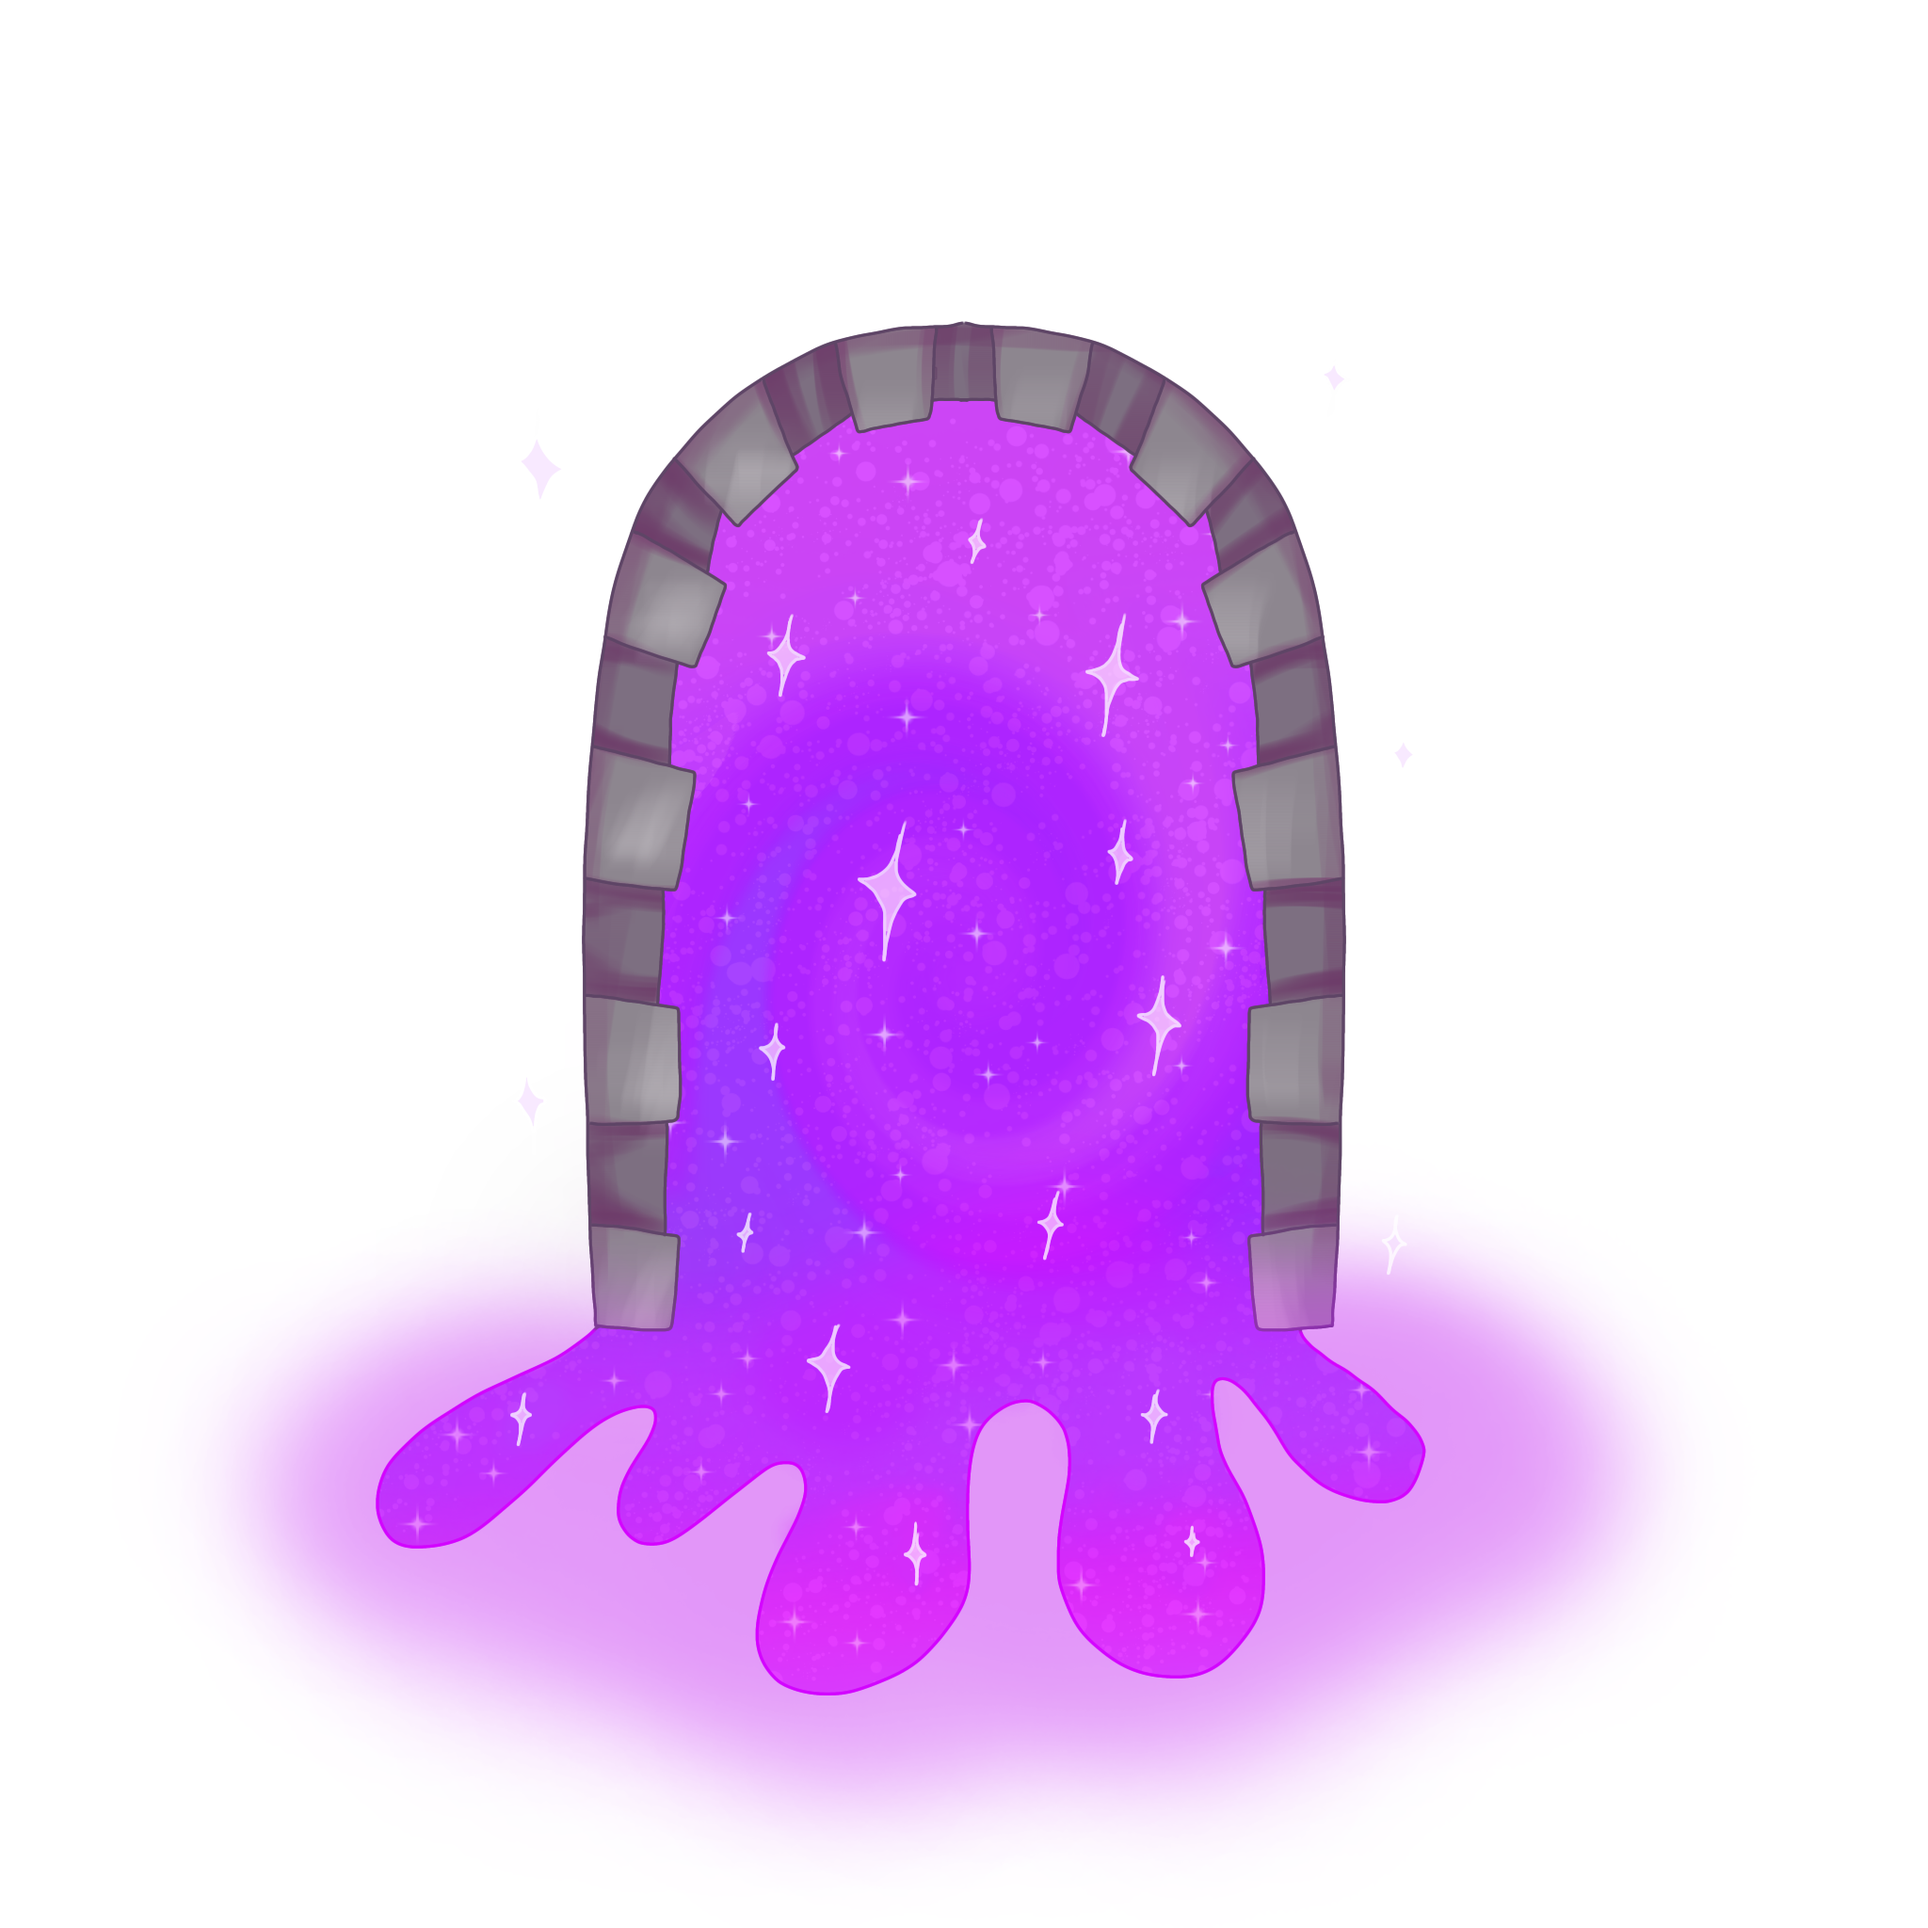
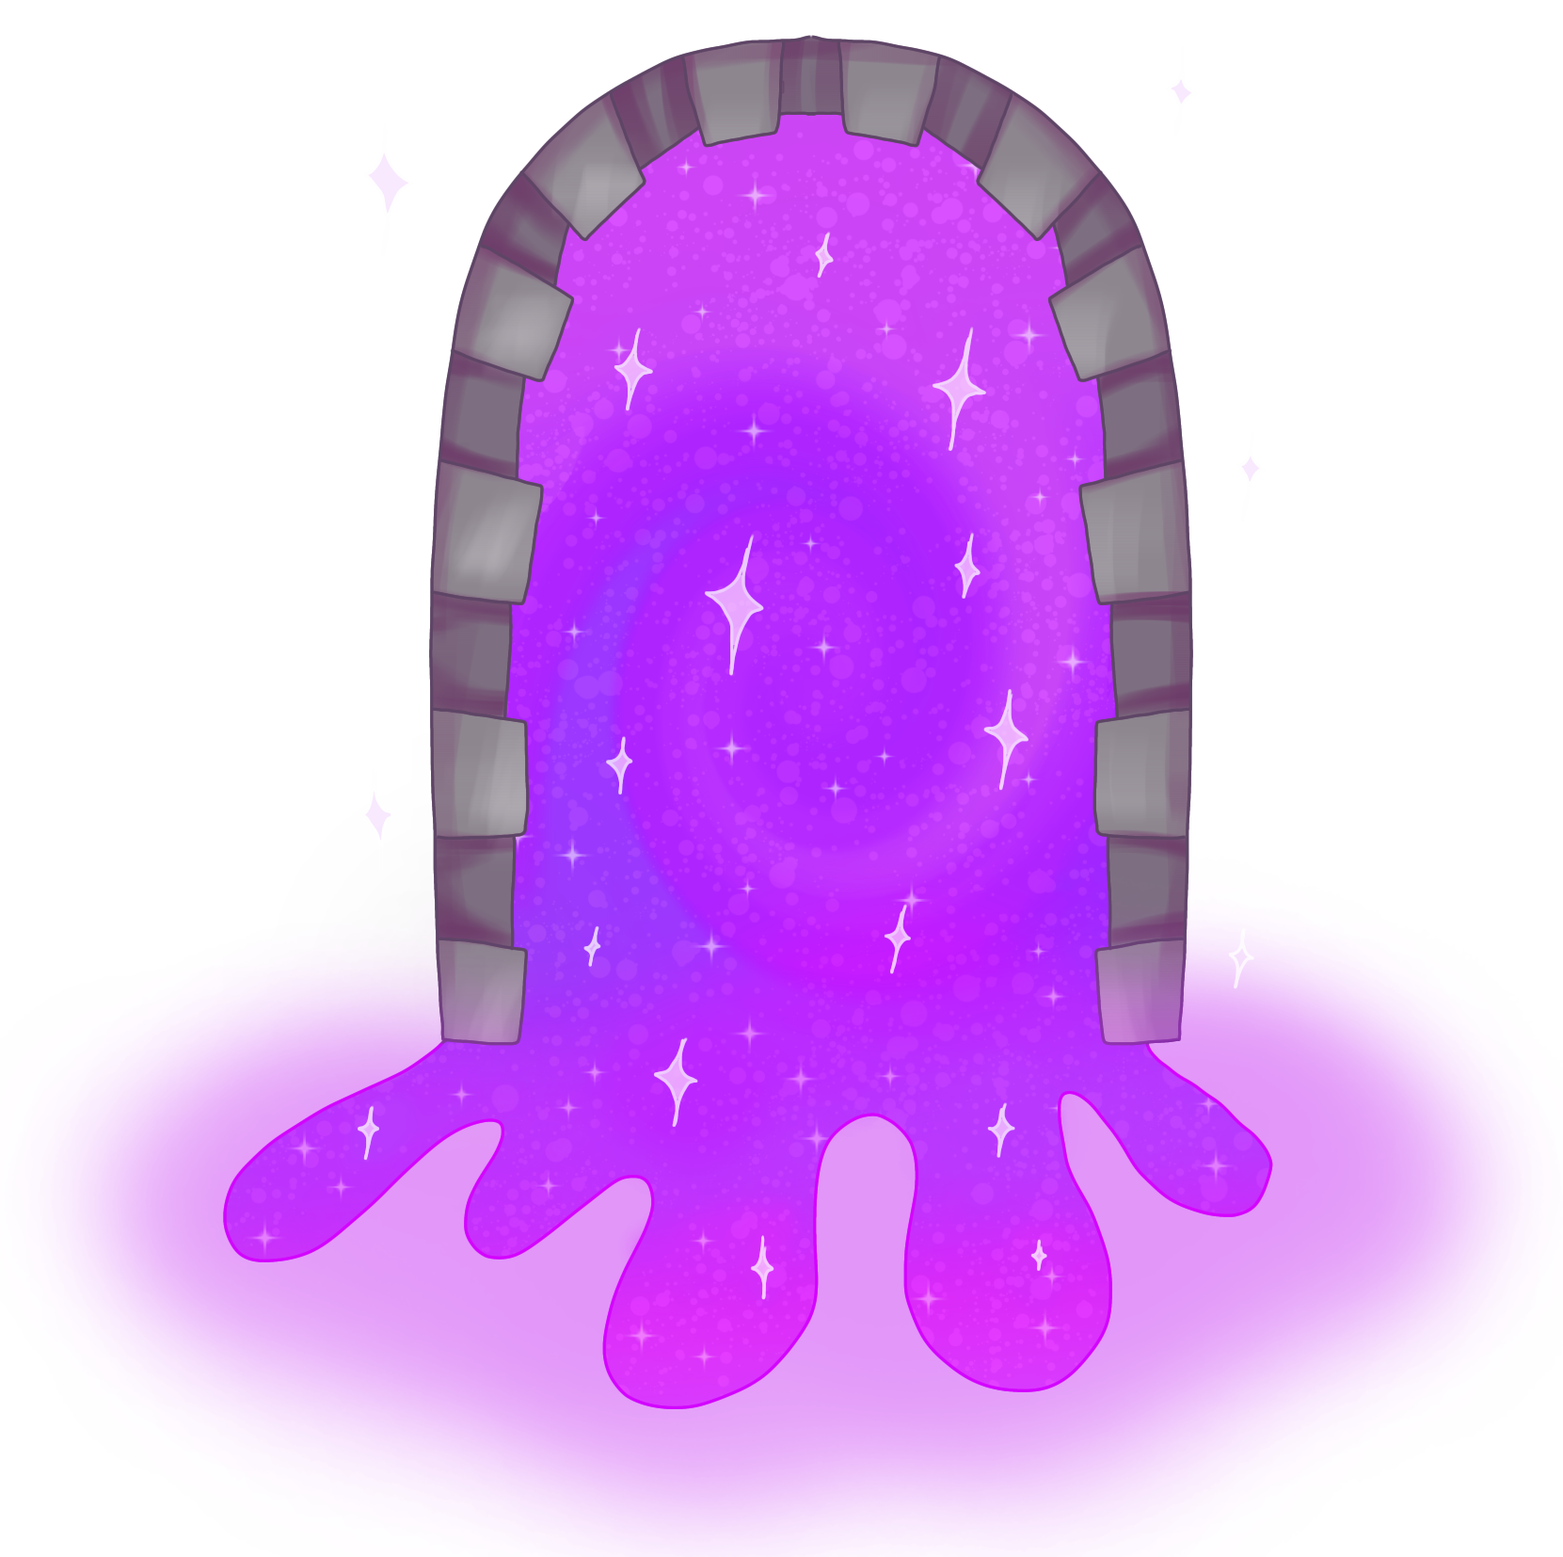
pijl toegevoegd

diff --git a/style.css b/style.css
@@ -97,9 +97,7 @@ body{
 }
 .portaal-class{
     border: none;
-    z-index: 2;
-    width: 175%;
-    height: 125%;
+    width: 200%;
 }
 .overgang-class{
     max-width: 300%;

diff --git a/pages/Start.php b/pages/Start.php
@@ -2,47 +2,51 @@
   <!-- Start pagina, met behulp van de javascript code krijg je het effect dat je door het portaal gaat -->
   <div class="container">
     <div class="row">
-      <div class="col-12 col-lg-6 d-flex mx-5 justify-content-center align-items-center" style="margin-top: 58vh;">
+      
+      <div class="col-12 col-lg-6 d-flex mx-5 justify-content-center align-items-center position-absolute">
         <div class="max-width: 646vh;">
-          <img src="./images/animatie.gif" class="img-fluid">
+          <img src="./images/arrow.gif" class="img-fluid" style="width: 60%; height: 60%; margin-left: 90%;">          
+        </div>
+      </div>  
+      <div class="col-12 col-lg-6 d-flex mx-5 justify-content-center align-items-center" style="margin-top: 54vh;">
+        <div class="max-width: 646vh;">
+
+          <img src="./images/animatie.gif" class="img-fluid">          
         </div>
       </div>  
       <div class="col-12 col-lg-6 mx-5 d-flex justify-content-center">
         <img src="./images/beginlijn.png" class="beginlijn-class img-fluid"> 
         <p>
-            <div id="text1" style="position: absolute; margin-top: 60%;" data-toggle="collapse" data-target="#unesco">What the</div>
-            <div style="position: absolute; margin-top:65%;" id="text2" data-toggle="collapse" data-target="#unesco"> Unesco?!</div>
-                <div class="b-background collapse show" style="position: absolute; margin-top: 65%; margin-right: 50%;" id="unesco">
-                        <h1>Unesco-scholennetwerk</h1>
-                        <p class="txt-button bb-background" style="font-size: 35px;">
-                        ‘Since wars begin in the minds of men, it is in the minds of men that the defences of peace must be constructed’. <br>
-                         Deze gedachte vormt de essentie van de missie van Unesco. <br> 
-                         Unesco-scholen ondersteunen deze missie: ze maken hun leerlingen vertrouwd met het Unesco-gedachtegoed en dragen <br>
-                         zo hun steentje bij aan vrede en verdraagzaamheid.
-                        </p>                           
-                </div>
+          <div id="text1" style="position: absolute; margin-top: 60%;" data-toggle="collapse" data-target="#unesco">What the</div>
+          <div style="position: absolute; margin-top:65%;" id="text2" data-toggle="collapse" data-target="#unesco"> Unesco?!</div>
+          <div class="b-background collapse show" style="position: absolute; margin-top: 65%; margin-right: 50%;" id="unesco">
+            <h1>Unesco-scholennetwerk</h1>
+            <p class="txt-button bb-background" style="font-size: 35px;">
+              <em><strong>‘Since wars begin in the minds of men, it is in the minds of men that the defences of peace must be constructed’.</strong></em><br>
+              Deze gedachte vormt de essentie van de missie van Unesco. <br> 
+              Unesco-scholen ondersteunen deze missie: ze maken hun leerlingen vertrouwd met het Unesco-gedachtegoed en dragen <br>
+              zo hun steentje bij aan vrede en verdraagzaamheid.
+            </p>                           
+          </div>
         </p>
-          <img src="images/vliegtuigkw1c.gif" style="position: absolute; margin-top: 140%;" data-toggle="collapse" data-target="#kw1c">
+        <img src="images/vliegtuigkw1c.gif" style="position: absolute; margin-top: 140%;" data-toggle="collapse" data-target="#kw1c">
         <p>
-                <div class="b-background1 collapse show" style="position: absolute; margin-top: 205%; margin-left: 50%;" id="kw1c">
-                        <h1>KW1C UNESCO SCHOOL</h1>
-                        <p class="txt-button bb-background1" style="font-size: 35px;">
-                        Het Koning Willem I College is als Unesco-school deel van een wereldwijd netwerk met meer dan 9700 scholen. <br>
-                        In Nederland zijn 75 scholen aangesloten waarvan ongeveer 10 mbo’s. <br>
-                        Wij vinden het als school belangrijk te streven naar een betere wereld. <br>
-                        Met behulp van deze app ga je ontdekken hoe jij als student je steentje bij kunt dragen.
-                        </p>                           
-                </div>
+          <div class="b-background1 collapse show" style="position: absolute; margin-top: 205%; margin-left: 50%;" id="kw1c">
+            <h1>KW1C UNESCO SCHOOL</h1>
+            <p class="txt-button bb-background1" style="font-size: 35px;">
+              Het Koning Willem I College is als Unesco-school deel van een wereldwijd netwerk met meer dan 9700 scholen. <br>
+              In Nederland zijn 75 scholen aangesloten waarvan ongeveer 10 mbo’s. <br>
+              Wij vinden het als school belangrijk te streven naar een betere wereld. <br>
+              Met behulp van deze app ga je ontdekken hoe jij als student je steentje bij kunt dragen.
+            </p>                           
+          </div>
         </p> 
       </div>
       <div class="col-12 d-flex justify-content-center">
-        <div class="col-12" id="image1" onclick="showNextImage()" style="margin-right: 50%; margin-top: 50%;">
-          <img src="images/sterrenveel.gif" id="portaal1" class="veel-sterren" style="position: absolute; margin-left: 30%;">  
-          <img src="images/portaal.png" id="portaal1" class="portaal-class" style="border: none; z-index: 2;">  
-        </div>
-        <div class="col-12" id="image2" style="position: fixed; top: 0; left: 0; width: 100%; height: 100%; z-index: 1; display:none;">
-          <img src="images/overgang.png" id="overgang2" class="overgang-class" style="border: none; position: absolute; top: 50%; left: 50%; transform: translate(-50%, -50%); pointer-events: none;" onload="imageLoaded()">
-        </div>
+        <a href="portaal" id="image1" style="margin-top: 50%; margin-right: 40%;" onclick="playAudio()">
+          <img src="images/sterrenveel.gif" id="portaal1" class="veel-sterren" style="position: absolute; margin-left: 5%;">  
+          <img src="images/portaal.png" id="portaal1" class="portaal-class" style="border: none; margin-top: 90%;">  
+        </a>
       </div>
     </div>
   </div>
@@ -52,68 +56,72 @@
   </audio>
 
   <script>
-      let currentImage = 1;
-      let imageLoadedFlag = false;
-      
-      document.querySelector('#unesco').classList.remove('show');
-      document.querySelector('#kw1c').classList.remove('show');
+    let currentImage = 1;
+    let imageLoadedFlag = false;
 
-      document.getElementById("image1").addEventListener("click", function(event) {
-        if (event.target.id === "portaal1") {
-          showNextImage();
-        }
-      });
+    document.querySelector('#unesco').classList.remove('show');
+    document.querySelector('#kw1c').classList.remove('show');
 
-      function showNextImage() {
-        if (currentImage == 1) {
-          document.getElementById("portaal1").style.display = "none";
-          document.getElementById("image2").style.display = "block";
-          currentImage = 2;
-          if (imageLoadedFlag) {
-            document.getElementById("sound").play(); // Speelt audio af
-            setTimeout(function() {
-              window.location.href = "portaal";
-            }, 2500); // Geef tijd aan in secondes voor de overgang
-          }
-        }
-      }
+    function playAudio() {
+      document.getElementById("sound").play(); // Play the audio
+      setTimeout(function() {
+        window.location.href = "next-page-url"; // Navigate to the next page after a delay
+      }, 2500); // Set the delay in milliseconds
+    }
 
-      function imageLoaded() {
-        imageLoadedFlag = true;
-      }
-      function animateText() {
-  const text1 = document.getElementById("text1");
-  const text2 = document.getElementById("text2");
+    function imageLoaded() {
+      imageLoadedFlag = true;
+    }
 
-  // Show "What the" text slowly
-  text1.style.animationName = "fadeInSlow";
-  text1.style.animationDuration = "5s";
-  text1.style.animationDelay = "0s";
-  text1.style.opacity = "1";
+    function animateText() {
+      const text1 = document.getElementById("text1");
+      const text2 = document.getElementById("text2");
 
-  // After the first text is fully displayed, show "Unesco" text faster
+      // Show "What the" text slowly
+      text1.style.animationName = "fadeInSlow";
+      text1.style.animationDuration = "5s";
+      text1.style.animationDelay = "0s";
+      text1.style.opacity = "1";
+
+      // After the first text is fully displayed, show "Unesco" text faster
+      setTimeout(function() {
+        text2.style.animationName = "fadeInFast";
+        text2.style.animationDuration = "1s";
+        text2.style.animationDelay = "0s";
+        text2.style.opacity = "1";
+      }, 5000);
+
+      // Reset animations and repeat
+      setTimeout(function() {
+        text1.style.animationName = "";
+        text1.style.opacity = "0";
+
+        text2.style.animationName = "stayVisible";
+        text2.style.animationDuration = "infinite";
+        text2.style.animationDelay = "0s";
+
+        animateText(); // Repeat the animation
+      }, 7000);
+    }
+
+    animateText(); // Start the animation
+
+    function hideAndShowImage() {
+  const arrowImage = document.querySelector('img[src="./images/arrow.gif"]');
+  const originalImagePosition = arrowImage.style.marginLeft; // Store the original margin-left value
+
+  arrowImage.style.visibility = 'hidden'; // Hide the image initially
+
   setTimeout(function() {
-    text2.style.animationName = "fadeInFast";
-    text2.style.animationDuration = "1s";
-    text2.style.animationDelay = "0s";
-    text2.style.opacity = "1";
-  }, 5000);
-
-  // Reset animations and repeat
-  setTimeout(function() {
-    text1.style.animationName = "";
-    text1.style.opacity = "0";
-
-    text2.style.animationName = "stayVisible";
-    text2.style.animationDuration = "infinite";
-    text2.style.animationDelay = "0s";
-
-    animateText(); // Repeat the animation
-  }, 7000);
+    arrowImage.style.visibility = 'visible'; // Show the image after 4 seconds
+    arrowImage.style.marginLeft = originalImagePosition; // Restore the original margin-left value
+  }, 4000);
 }
 
-animateText(); // Start the animation
+hideAndShowImage();
 
-      
+
+
+
   </script>
 </main>

diff --git a/index.php b/index.php
@@ -44,6 +44,7 @@ session_start();
 
             require_once("pages/" . $page . ".php");
         }
+        
         ?>
     </body>
 
